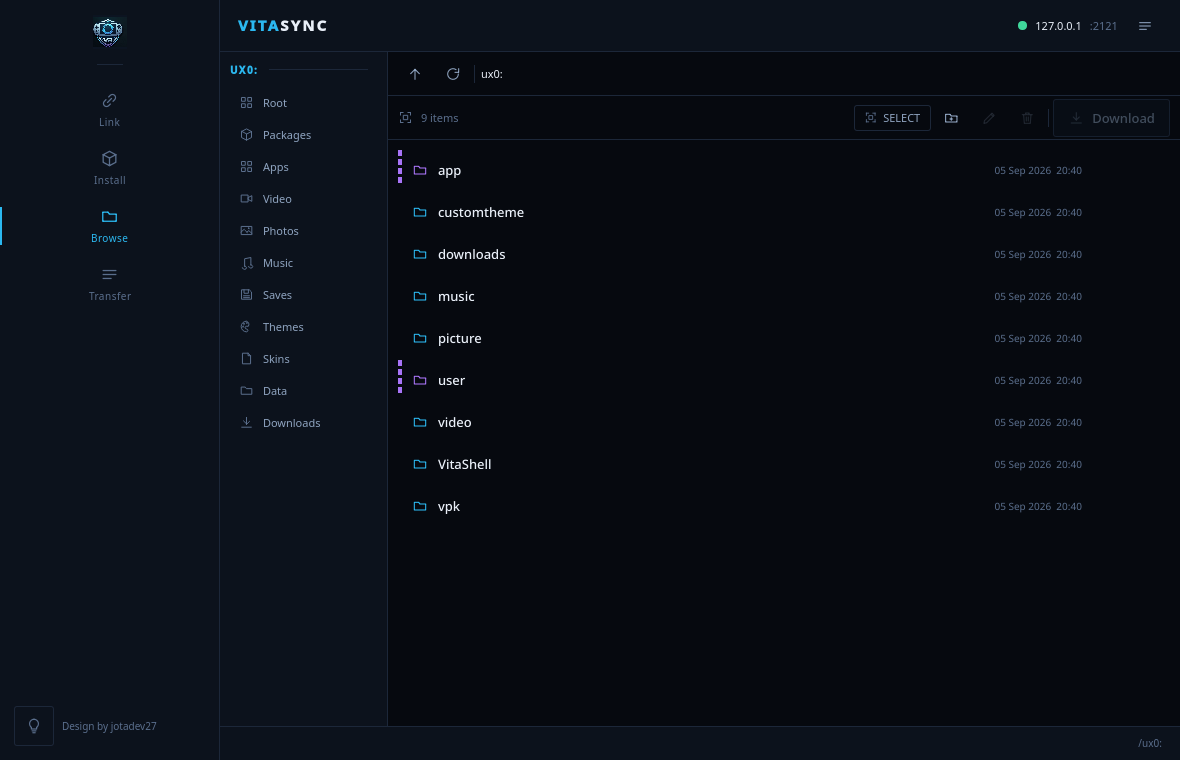
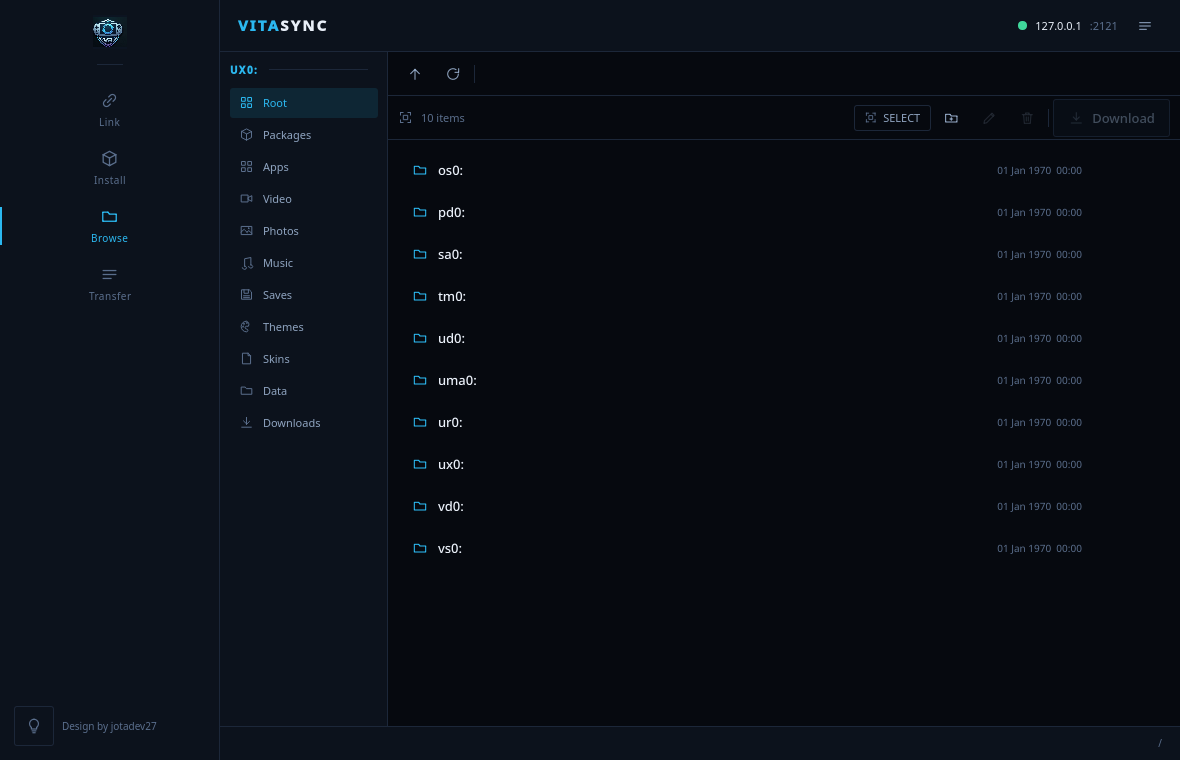
Recapture root browsing and add the Wi-Fi connected screenshot
browse.png was taken at ux0: while its caption promised the true root, so
it is retaken with --path / and now shows all ten partitions the device
reports. link-wifi.png is new and fills the placeholder for a live Wi-Fi
session, showing the device panel and the mount points the console itself
reported -- the lightweight confirmation that this is the user's own Vita.

The Transfers caption is corrected to describe what its screenshot actually
shows. Capturing a download mid-flight needs a way to start one without a
mouse, which the debug CLI does not currently expose.

diff --git a/README.md b/README.md
@@ -41,7 +41,7 @@ one at a time.
 Recent IP:port pairs you've connected to are remembered under **RECENT** for
 one-tap reconnecting; a **Clean** action appears once that list gets long.
 
-> [Screenshot: Link screen connected via Wi-Fi, device panel visible]
+![Link screen connected via Wi-Fi, device panel visible](docs/images/link-wifi.png)
 
 ### USB
 
@@ -137,7 +137,7 @@ locations, select what you want (single files or whole folders, drag-select
 included), and download to a folder you choose on your PC. Folders come
 back whole, subfolders and all.
 
-![Transfers screen with a batch download in progress](docs/images/transfers.png)
+![Transfers screen with two theme installs verified and awaiting confirmation on the Vita](docs/images/transfers.png)
 
 ---
 
